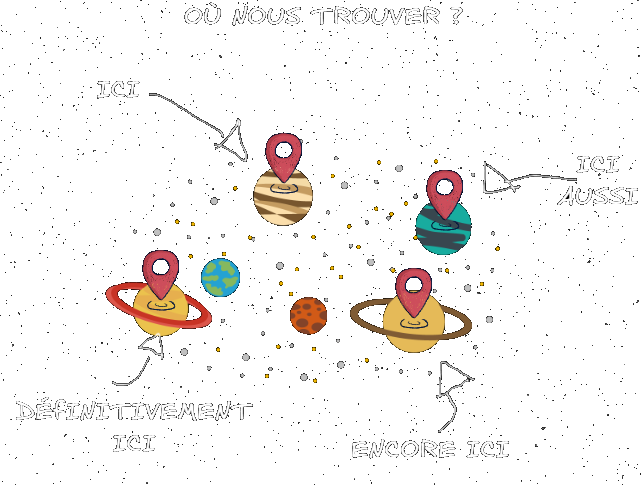
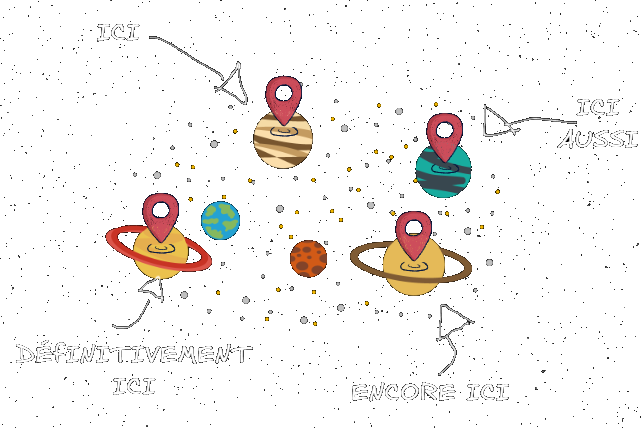
fixMap_fixFormulaire

diff --git a/contact.css b/contact.css
@@ -4,7 +4,8 @@
     box-sizing: border-box;
     padding: 0;
     margin: 0;
-    font-family: "Orbitron", sans-serif;
+    font-family: "Orbitron", sans-serif;;
+    
 }
 
 body {
@@ -12,63 +13,53 @@ body {
 }
 
 main {
+    height: 100vh;
     display: flex;
-    flex-direction: row;
+    flex-direction: column;
+    align-items: center;
     justify-content: space-around;
+        h1, h2 {
+            color: white;
+        }
         .map {
-            
+            padding: 2rem;
+            max-height: 1500px;
+            max-width: 1500px;
+            width: 100%;
         }
         form {
-            margin: 0 auto;
-            width: 400px;
-            padding: 1em;
-            border: 1px solid #ccc;
-            border-radius: 1em;
+            display: inline-block;
+            width: 22rem;
+            height: 100%;
+            padding: 1rem;
+            border-radius: 1rem;
+            border: 5px solid #ffbf01ff;
+                ul {
+                    display: flex;
+                    flex-direction: column;
+                    align-items: flex-start;
+                    width: 100%;
+                    gap: 1.5rem;
+                }
                 label {
-                    display: inline-block;
-                    width: 90px;
-                    text-align: left;
                     color: white;
+                    text-decoration: none;
                 }
                 input, textarea {
-                    font: 1em sans-serif;
+                    font: 1rem sans-serif;
                     width: 300px;
-                    box-sizing: border-box;
                     border: 1px solid #999;
                 }
                 textarea {
-                    vertical-align: top;
-                    height: 5em;
-                    resize: vertical;
+                    height: 10em;
+                    resize: none;
                 }
         }
 }
 
-
-
-
-
-
-  textarea {
-    /* On aligne les textes sur plusieurs lignes avec leur
-       libellé. */
-    vertical-align: top;
-  
-    /* On fournit un peut d'espace pour saisir du texte. */
-    height: 5em;
-  
-    /* On permet de redimensionner verticalement. */
-    resize: vertical;
-  }
-  
-  .button {
-    /* On aligne les boutons avec les champs texte. */
-    padding-left: 90px; /* La même taille que les libellés */
-  }
-  
-  button {
-    /* Une marge supplémentaire représentant approximativement
-       le même espace qu'entre les libellés et les champs. */
-    margin-left: 0.5em;
-  }
-  
+section {
+    display: flex;
+    flex-direction: column;
+    align-items: center;
+    gap: 2rem;
+}

diff --git a/contact.html b/contact.html
@@ -8,30 +8,34 @@
 </head>
 <body>
     <main>
-        <img class="map" src="assets/img/map.png" alt="map">
-        <form action="/ma-page-de-traitement" method="post">
-            <ul>
-                <li>
-                    <label for="first_name">Prénom&nbsp;:</label>
-                    <input type="text" id="first_name" name="user_firstname" />
-                </li>
-                <li>
-                    <label for="name">Nom&nbsp;:</label>
-                    <input type="text" id="name" name="user_name" />
-                </li>
-                <li>
-                    <label for="mail">E-mail&nbsp;:</label>
-                    <input type="email" id="mail" name="user_mail" />
-                </li>
-                <li>
-                    <label for="msg">Message&nbsp;:</label>
-                    <textarea id="msg" name="user_message"></textarea>
-                </li>
-            </ul>
-            <div class="button">
-                <button type="submit">Envoyer votre message</button>
-            </div>
-        </form>
+        <section>
+            <h1>Où nous trouver ?</h1>
+            <img class="map" src="assets/img/map.png" alt="map">
+        </section>
+        <section>
+            <h1>Nous contacter :</h1>
+            <form action="/ma-page-de-traitement" method="post">
+                <ul>
+                    <li>
+                        <label for="first_name">Prénom&nbsp;:</label>
+                        <input type="text" id="first_name" name="user_firstname" />
+                    </li>
+                    <li>
+                        <label for="name">Nom&nbsp;:</label>
+                        <input type="text" id="name" name="user_name" />
+                    </li>
+                    <li>
+                        <label for="mail">E-mail&nbsp;:</label>
+                        <input type="email" id="mail" name="user_mail" />
+                    </li>
+                    <li>
+                        <label for="msg">Message&nbsp;:</label>
+                        <textarea id="msg" name="user_message"></textarea>
+                    </li>
+                    <button type="submit">Envoyer votre message</button>
+                </ul>
+            </form>
+        </section>
     </main>
 </body>
 </html>
